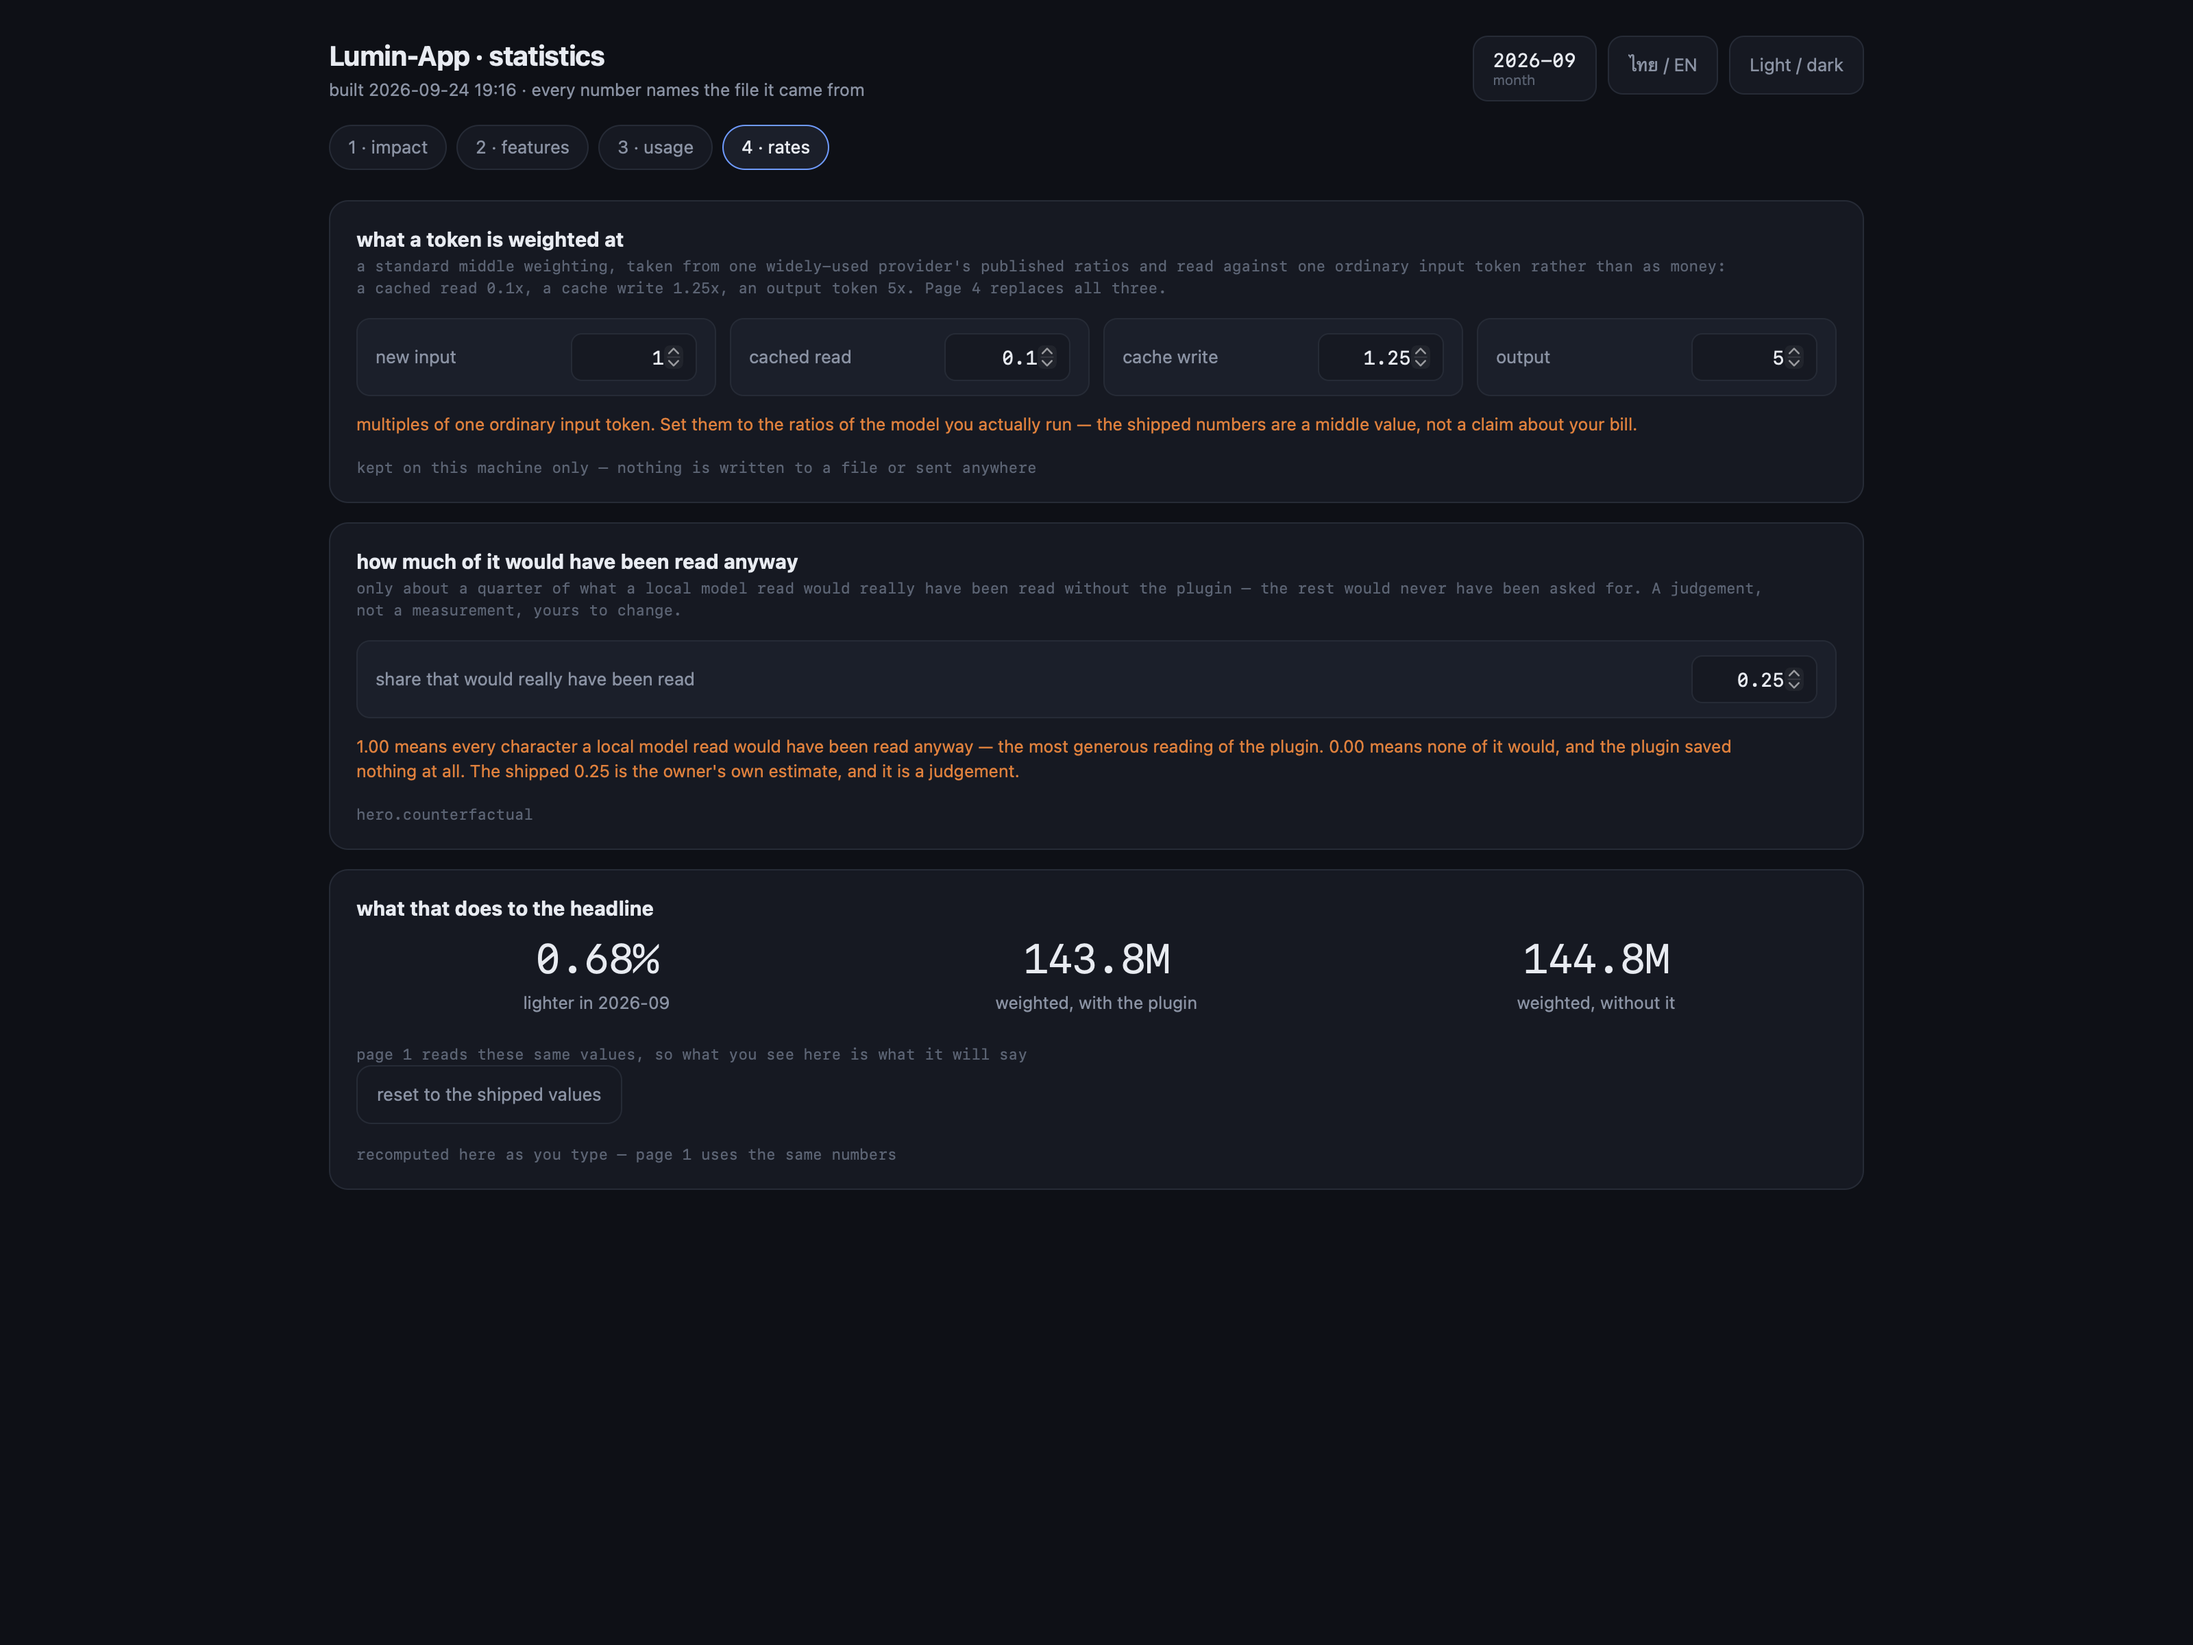
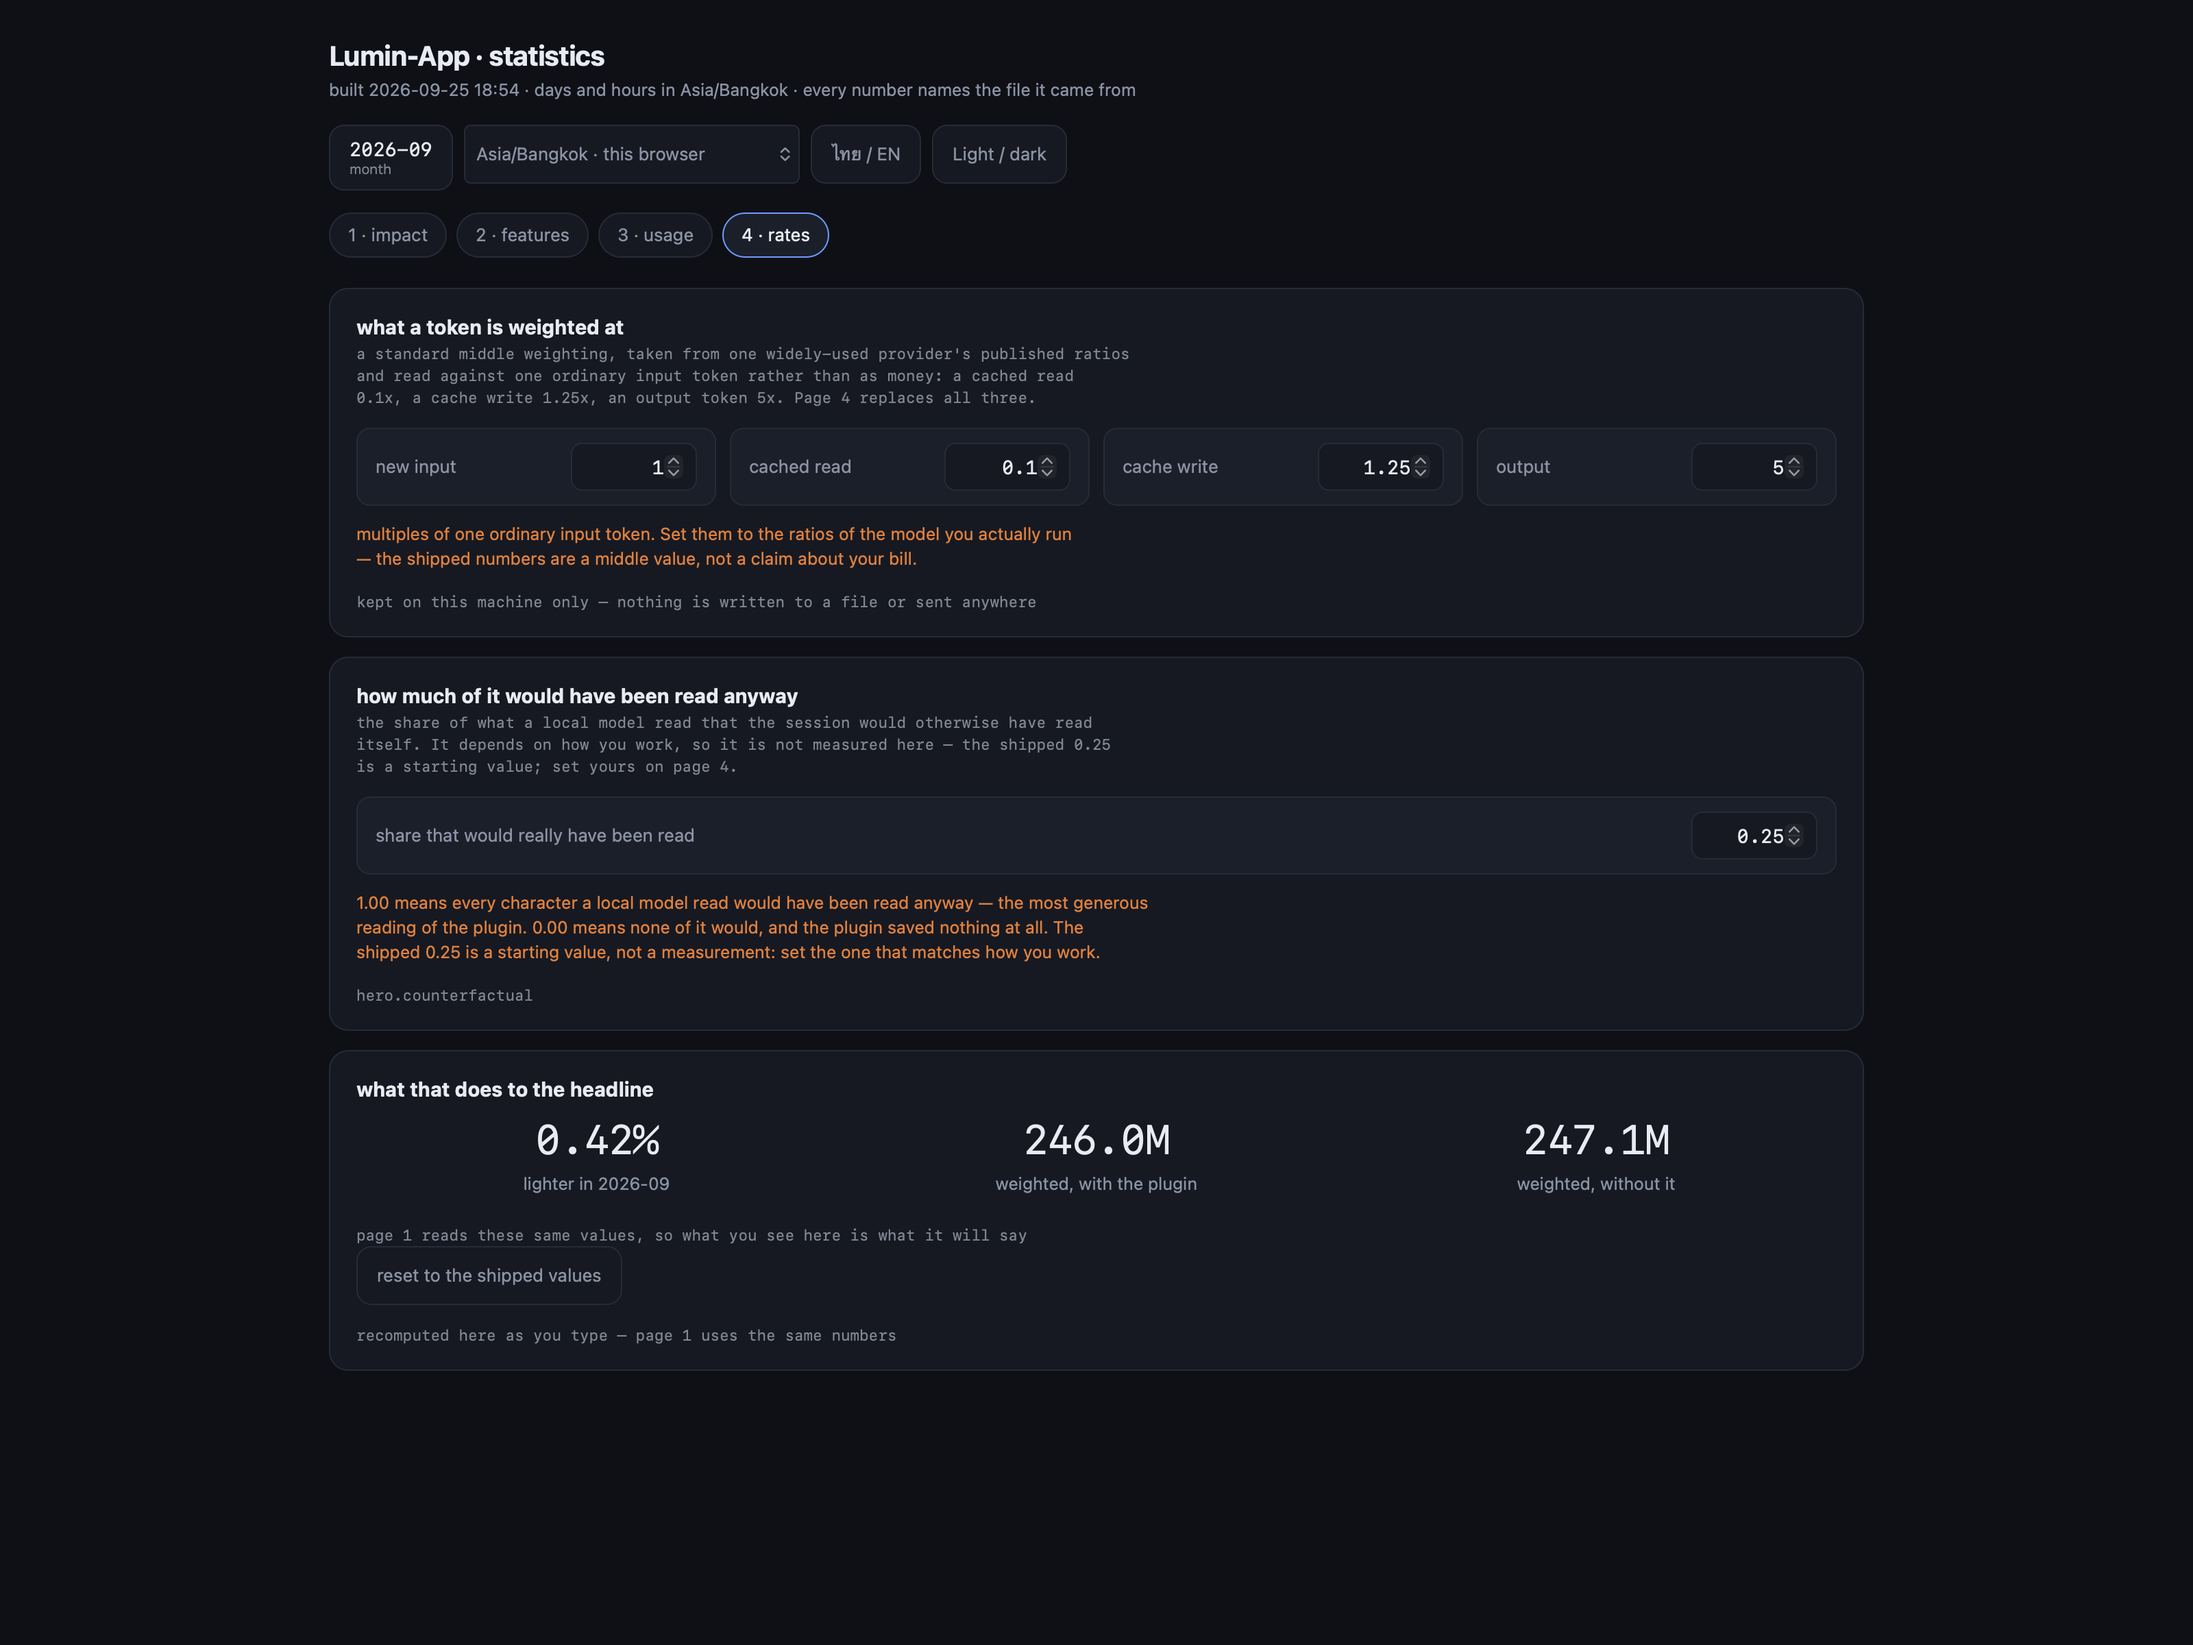
README: the dashboard section says to measure first, and names where its pictures come from
The section opened on "1.0M tokens saved" with no context. It now says what chamnan does, that
whether it saves tokens depends on the repository and on how a person works, and points at the
measure page to find out first. The pictures are named for what they are: the repository chamnan
is built in, where the same files are read over and over and most tokens go into research
rounds, which is why its headline is 0.42%. The 25% is described as a setting, not a finding.
The feature list no longer says chamnan runs a local model; it records one where a person runs it.

All seven images recaptured from the current dashboard: the new colours, the time-zone menu, and
the hero without the sentences that stated a share or a gap as fact. The security image is
cropped to its two panels so the file table below it stays out.

Claude-Session: https://claude.ai/code/session_01PCqB7nwKKF9YXkY6GBdySL

diff --git a/README.md b/README.md
@@ -603,22 +603,33 @@ nothing else is written until you run `/chamnan:bootstrap` or `chamnan-map`.
 
 ## The dashboard: what it actually cost, on your own numbers
 
-**New in 1.31.** Every figure on these pages is read out of your own workspace's logs. Nothing is
-sampled, nothing is estimated, and a page with no data says so rather than filling itself in — a
-fresh clone opens to greyed panels that name the file each one reads, which is the honest first
-view. It rebuilds itself at the end of every session, into your repository's own
+chamnan does several things for a session — it maps the repository, points at what is already
+known before a file is opened, flags a long document before it is read whole, and warns before a
+failure is repeated. **Whether that adds up to fewer tokens depends on your repository and on how
+you work, so measure it before you believe it.** The
+[measure page](https://arcticfox2029.github.io/chamnan-measure/) runs chamnan's real modules against
+your own repository in the browser; this dashboard then shows what happened once you use it.
+
+Every figure here is read out of your own workspace's logs. Nothing is sampled, and a page with no
+data says so rather than filling itself in — a fresh clone opens to greyed panels that name the
+file each one reads. It rebuilds itself at the end of every session, into your repository's own
 `.chamnan/statistic/` (gitignored — it is your activity, not your team's); open
 `.chamnan/statistic/report/index.html`. To build it by hand, run `statistic/build_statistic.py
 --root <your repository>` from the plugin.
 
+**The pictures below come from the repository chamnan is built in, not from a typical one.** The
+same files there are read again and again, and most of its tokens go into research rounds — reading
+outside work to find ideas and things worth fixing in chamnan. That is why its headline is small:
+0.42% in the month shown. Yours will be different, in either direction, and the page shows your
+own figure rather than this one.
+
 <img src="docs/dashboard/1-impact-hero.png" alt="The impact page: tokens saved by having the plugin, what kind of token each one was, what the repository puts in front of a session, and what the plugin did that would not have happened otherwise." width="100%">
 
-The top line is the one worth arguing with, so it shows its working: the bars **start at the
-common floor rather than at zero**, because the two totals differ by less than a fifth of a
-percent and would otherwise draw as one length. The saving is weighted the way a cache write is
-weighted, and the 25% that turns "characters a local model read" into "tokens saved" is **a
-judgement, not a measurement, and the page says so** — page 4 is where you replace it with your
-own numbers.
+The headline counts what a local model read instead of the session — where your own tooling runs
+one and records it; the plugin does not call a model itself — weighted the way a cache write is
+weighted. How much of that the session would otherwise have read itself is not something the
+plugin can know, so it is a setting, not a finding: page 4 is where you set it, and the headline
+follows.
 
 | | |
 |---|---|
